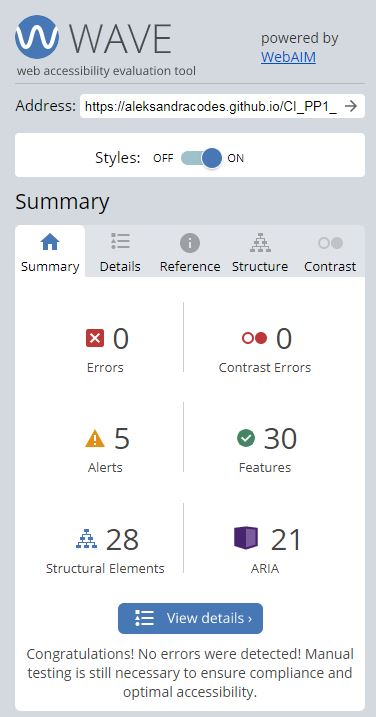
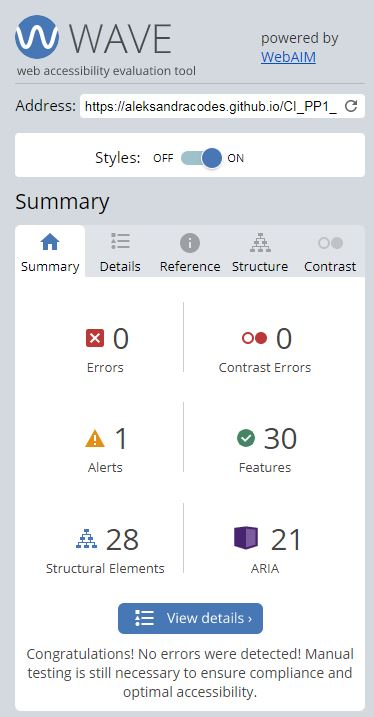
Add accessibility and performance evaluation

diff --git a/404.html b/404.html
@@ -109,7 +109,7 @@
           src="assets/images/404-error-image.png"
           alt="404 page not found error message with 0 of volleyball cracking the wall"
         />
-        <h3>Oooh spike! Looks like this page doesn't exist.</h3>
+        <h2>Oooh spike! Looks like this page doesn't exist.</h2>
         <a class="btn btn-danger contact-btn mt-3" href="index.html"
           >Try again</a
         >

diff --git a/README.md b/README.md
@@ -165,7 +165,16 @@ When validating my own internal CSS, the validator shows no errors and one warni
 
 ### Accessibility
 
+The WAVE WebAIM web accessibility evaluation tool was used to ensure the website met high accessibility standards. All site pass with 0 errors.
+
+<details><summary>See evaluation summary</summary><img src="docs/validation/validation-accessibility-all-site.jpg">
+</details>
+
 ### Performance
+
+Google Lighthouse in Google Chrome Developer Tools was used to test the performance of the website.
+<details><summary>See evaluation summary</summary><img src="docs/validation/validation-lighthouse-performance.jpg">
+</details>
 
 ### Performing tests on various devices
 
